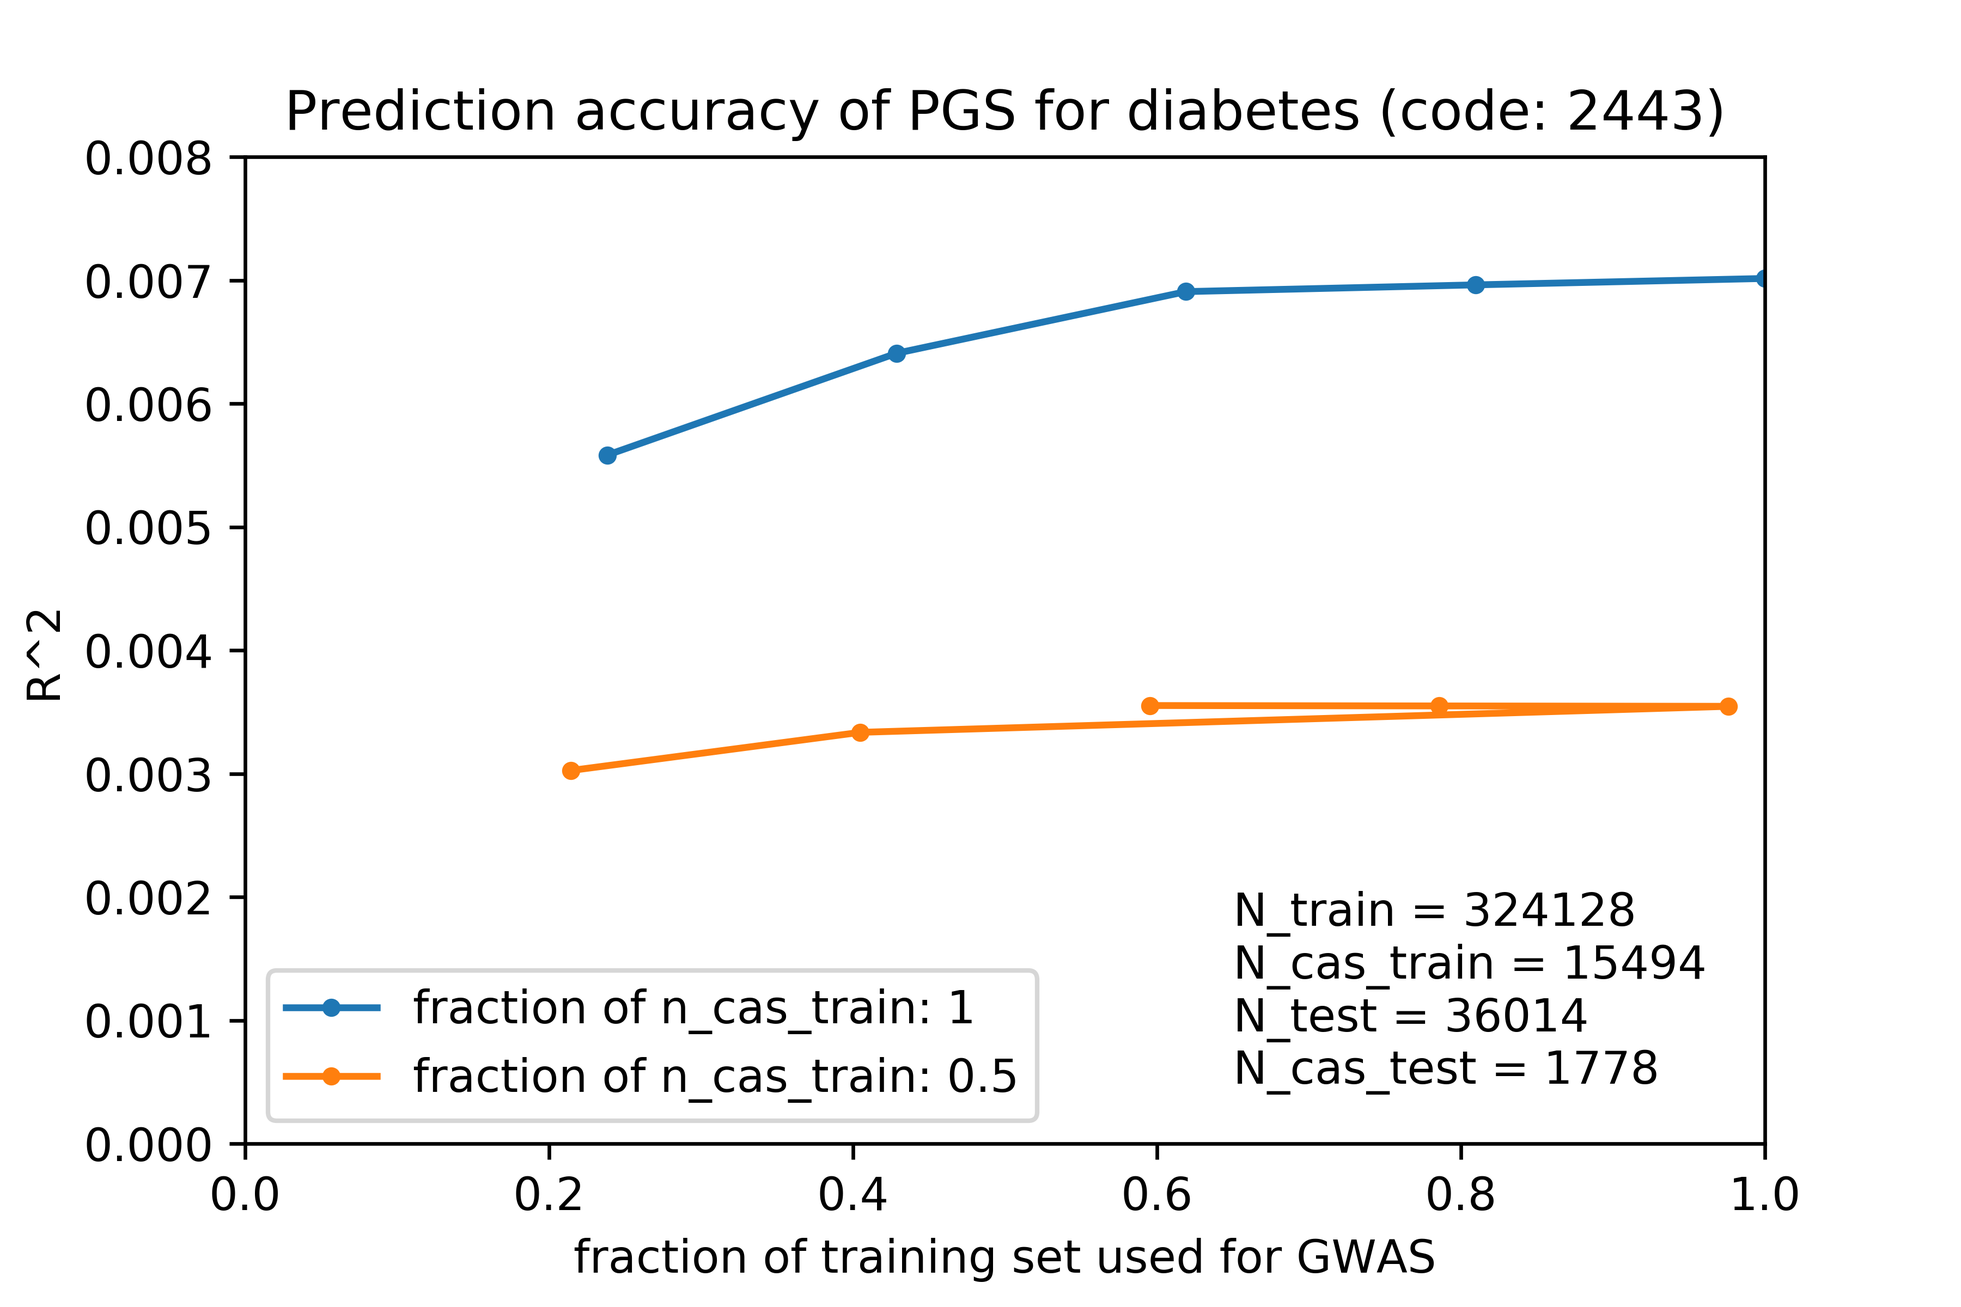
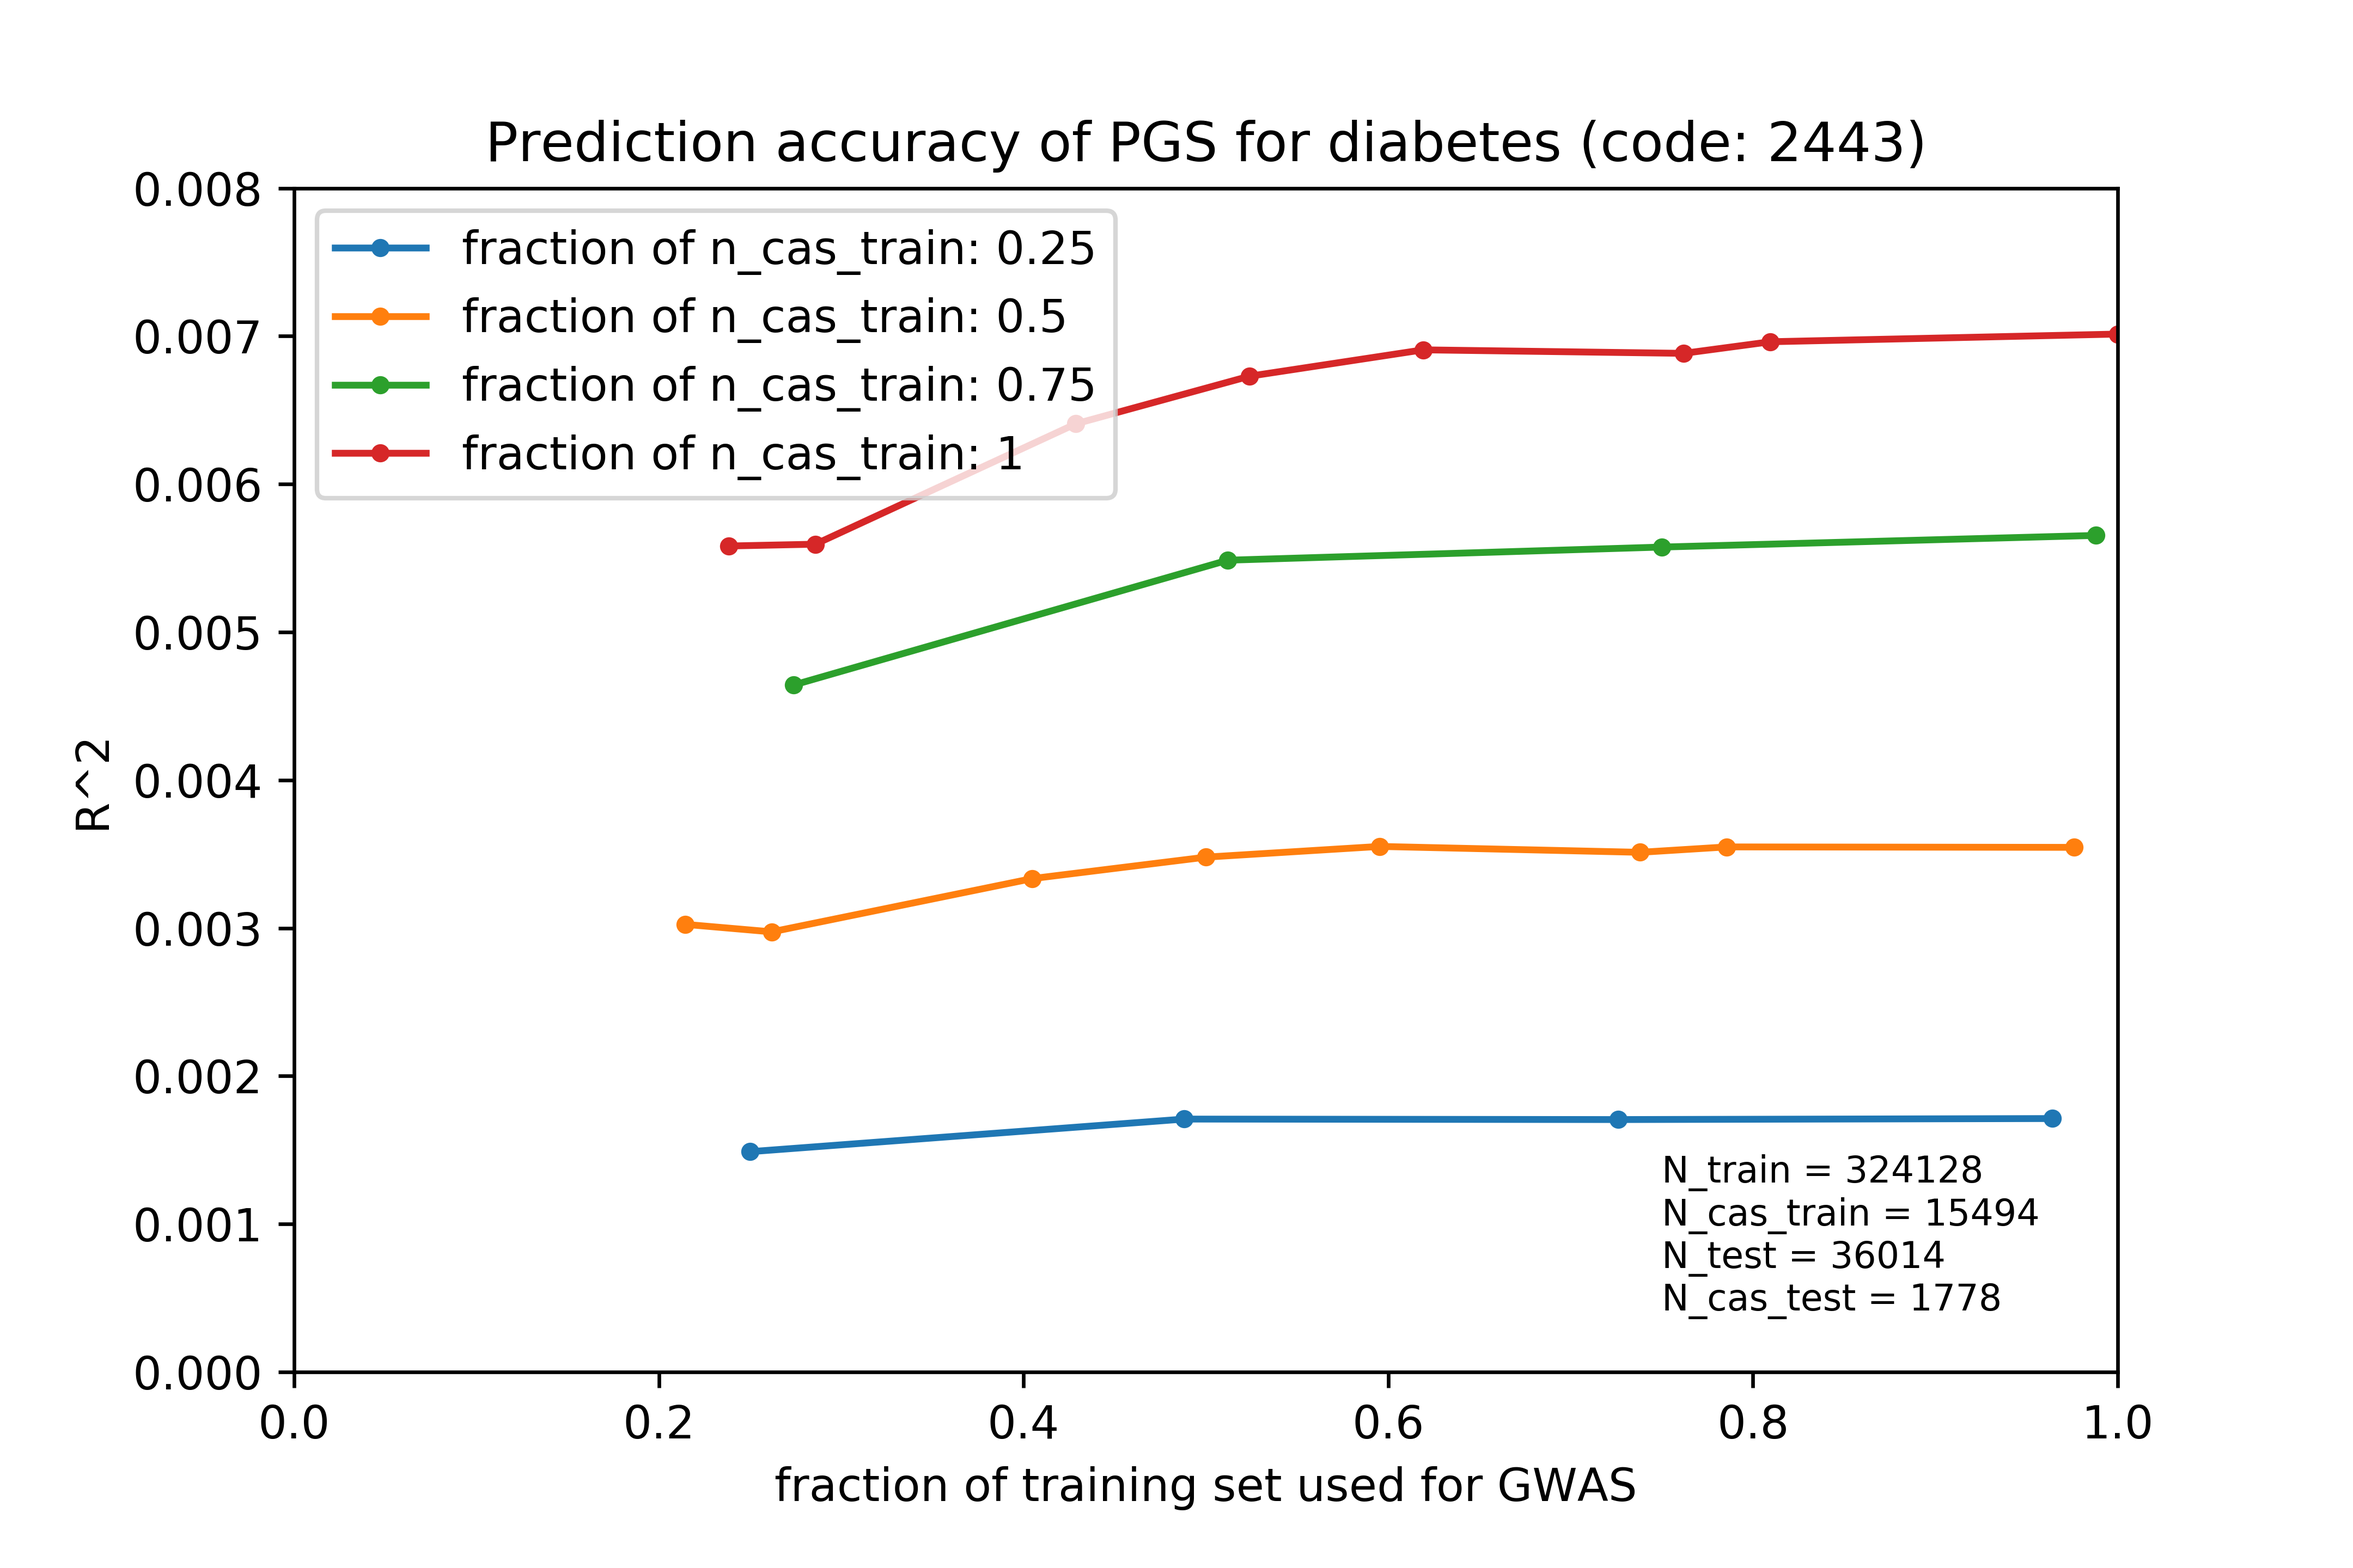
updated plots and code for new downsampling combos of diabetes

diff --git a/python/plot_pgs_corr.py b/python/plot_pgs_corr.py
@@ -13,7 +13,7 @@ import pandas as pd
 import matplotlib.pyplot as plt
 #import scipy.stats as stats
 import numpy as np
-import statsmodels.api as sm
+from sklearn.linear_model import LinearRegression
 import os
 
 cloud_wd = 'gs://nbaya/risk_gradients/'
@@ -30,8 +30,8 @@ local_wd = '/Users/nbaya/Documents/lab/risk_gradients/'
 
 phen = '2443'
 frac_all_ls = [1]
-frac_cas_ls = [1, 0.5]
-frac_con_ls = [0.2, 0.4, 0.6, 0.8, 1]
+frac_cas_ls = [0.25, 0.5, 0.75, 1]
+frac_con_ls = [0.2, 0.25, 0.4, 0.5, 0.6, 0.75, 0.8, 1]
 
 phen = '21001'
 frac_all_ls = [0.2, 0.4, 0.6, 0.8, 1]
@@ -75,7 +75,7 @@ else:
                         subprocess.call(f'gsutil cp {cloud_wd}corr{suffix}.tsv {local_wd}data/'.split(' '))
                     if not os.path.isfile(f'{local_wd}data/corr{suffix}.tsv'):
                         print(f'{cloud_wd}corr{suffix}.tsv does not exist, using null values instead')
-                        row = [float('nan')]*10
+                        row = [float('nan')]*11
                     else:
                         result = pd.read_csv(f'{local_wd}data/corr{suffix}.tsv',sep='\t')
                         row = [result['phen'].values[0],result['desc'].values[0],n,n_cas,n_new,n_cas_new,
@@ -88,6 +88,8 @@ else:
 
 df = df.dropna()
 
+
+df = df.sort_index()
 for frac in frac_cas_ls:
     df_tmp = df[df.n_cas_train == int(phen_dict[phen][4]*frac)]    
     plt.plot(df_tmp.n_train/phen_dict[phen][3], df_tmp.r**2,'.-')
@@ -96,55 +98,63 @@ plt.ylabel('R^2')
 plt.xlim([0,1])
 plt.ylim([0,round(max(df.r**2)*1.1,(2 if max(df.r**2)>0.1 else 3))])
 plt.title(f'Prediction accuracy of PGS for {phen_dict[phen][0]} (code: {phen})')
-plt.text(x=(0.65 if n_cas>0 else 0.7),
-         y=max(df.r**2)*(0.07 if n_cas>0 else 0.06),
+plt.text(x=(0.75 if n_cas>0 else 0.7),
+         y=max(df.r**2)*(0.06 if n_cas>0 else 0.06),
          s=(f'N_train = {phen_dict[phen][3]}'+(f'\nN_cas_train = {phen_dict[phen][4]}' if n_cas>0 else '')+
-                         f'\nN_test = {n-phen_dict[phen][3]}'+(f'\nN_cas_test = {n_cas-phen_dict[phen][4]}' if n_cas>0 else '')))
+                         f'\nN_test = {n-phen_dict[phen][3]}'+(f'\nN_cas_test = {n_cas-phen_dict[phen][4]}' if n_cas>0 else '')),
+         fontsize=8)
 if len(frac_cas_ls)>1:
     plt.legend([f'fraction of n_cas_train: {frac}' for frac in frac_cas_ls])
 fig=plt.gcf()
+fig.set_size_inches(6*1.2,4*1.2)
 fig.savefig(f'{local_wd}plots/{phen}_pgs_prediction.png',dpi=600)
 plt.close()
-    
+
 if n_cas > 0:
-    df = df.sort_values(by='n_cas')
-    x = (1/df.n_cas_train + 1/(df.n_train-df.n_cas_train))
-    y = 1/df.r**2
-    plt.plot(x, y,'.-')
+    df = df.sort_values(by='r')
+    x = np.asarray(1/df.n_cas_train + 1/(df.n_train-df.n_cas_train)).reshape((-1,1))
+    y = np.asarray(1/df.r**2)
+    plt.plot(x, y,'.',ms=10)
     plt.xlabel('1/N_e')
     plt.ylabel('1/R^2')
-    result = sm.OLS(endog=y.tolist(),exog=sm.add_constant(x.tolist())).fit()
-    R2 = result.rsquared
-    b, a = result.params[0], result.params[1]
+    model = LinearRegression().fit(x,y)
+    r2 = model.score(x,y)
+    b, a = model.intercept_, model.coef_[0]
     plt.plot(x,a*x+b,'k--',alpha=0.5)
     plt.title(f'PGS for {phen_dict[phen][0]} (code: {phen})')
     plt.text(x=min(x), y=max(y)-0.1*(max(y)-min(y)),
-             s=f'y = {round(a,6)}*x + {round(b,6)}\nR^2 = {round(R2,6)}')
+             s=f'y = {round(a,6)}*x + {round(b,6)}\nR^2 = {round(r2,6)}')
     plt.legend(['1/N_e vs. 1/R^2','OLS fit'],loc='lower right')
+    locs, labels = plt.xticks()
+    plt.xticks(locs[::2],[str(round(x,10)) for x in locs[::2]],rotation=0)
     fig=plt.gcf()
+    fig.set_size_inches(6*1.2, 4*1.2)
     fig.savefig(f'{local_wd}plots/{phen}_inv_Neff_inv_R2.png',dpi=600)
     plt.close()
 
 for i, frac in enumerate(frac_cas_ls):
     df_tmp = df[df.n_cas_train == int(phen_dict[phen][4]*frac)].sort_values(by='n_train')
-    plt.plot(df_tmp.inv_n_train, df_tmp.inv_R2,'.-',c=plt.rcParams['axes.prop_cycle'].by_key()['color'][i])
-    result = sm.OLS(df_tmp.inv_R2.tolist(),sm.add_constant(df_tmp.inv_n_train.tolist())).fit()
-    R2 = result.rsquared
-    b, a = result.params[0], result.params[1]
-    x = np.asarray([min(df_tmp.inv_n_train),max(df_tmp.inv_n_train)])
+    x = np.asarray(df_tmp.inv_n_train).reshape((-1,1))
+    y = np.asarray(df_tmp.inv_R2)
+    plt.plot(x, y,'.-',c=plt.rcParams['axes.prop_cycle'].by_key()['color'][i])
+    
+    model = LinearRegression().fit(x,y)
+    r2 = model.score(x,y)
+    b, a = model.intercept_, model.coef_[0]
     plt.plot(x,a*x+b,'k--',alpha=0.5)
     plt.title(f'PGS for {phen_dict[phen][0]} (code: {phen})')
     plt.ylabel('1/R^2')
     plt.xlabel('1/N')
-    #locs, labels = plt.xticks()
-    #plt.xticks(locs[::2],[str(round(x,10)) for x in locs[::2]])
+    locs, labels = plt.xticks()
+    plt.xticks(locs[::2],[str(round(x,10)) for x in locs[::2]],rotation=0)
+    plt.legend(['1/N vs. 1/R^2','OLS fit'],loc='lower right')
     plt.text(x=min(df_tmp.inv_n_train), 
              y=max(df_tmp.inv_R2)-(0.2 if len(frac_cas_ls)==1 else 0.3)*(max(df_tmp.inv_R2)-min(df_tmp.inv_R2)),
-             s=f'y = {round(a,6)}*x + {round(b,6)}\nR^2 = {round(R2,6)}\nh2_M = {round(1/b,6)}\nM_e = {int(round(a/b**2))}'+
-             f'\nfrac_cas = {frac_cas}' if len(frac_cas_ls)>1 else '')
-    plt.legend(['1/N vs. 1/R^2','OLS fit'],loc='lower right')
+             s=f'y = {round(a,6)}*x + {round(b,6)}\nR^2 = {round(r2,6)}\nh2_M = {round(1/b,6)}\nM_e = {int(round(a/b**2))}'+
+             f'\nfrac_cas = {frac}' if len(frac_cas_ls)>1 else '')
     fig=plt.gcf()
-    fig.savefig(f'{local_wd}plots/{phen}_pgs_prediction_linearized{"" if len(frac_cas_ls)==1 else i}.png',dpi=600)
+    fig.savefig(f'{local_wd}plots/{phen}_pgs_prediction_linearized{"" if len(frac_cas_ls)==1 else f".frac_cas_{frac}"}.png',dpi=600)
+#    fig.savefig(f'{local_wd}plots/{phen}_pgs_prediction_linearized_all.png',dpi=600) #only use if len(frac_cas_ls) > 1
     plt.close()
 
 

diff --git a/python/downsample_gwas.py b/python/downsample_gwas.py
@@ -65,7 +65,7 @@ def get_mt(phen, variant_set, test_set=0.1, get='both', overwrite=False, seed=No
         mt0 = hl.read_matrix_table(f'gs://nbaya/split/ukb31063.{variant_set}_variants.gwas_samples_repart.mt')
     
         print(f'\nReading UKB phenotype {phen_dict[phen][0]} (code: {phen})...')
-        phen_tb0 = hl.import_table('gs://phenotype_31063/ukb31063.phesant_phenotypes.both_sexes.tsv.bgz',
+        phen_tb0 = hl.import_table('gs://ukb31063/ukb31063.phenotypes.tsv.bgz',
                                    missing='',impute=True,types={'"userId"': hl.tstr}).rename({ '"userId"': 's', '"'+phen+'"': 'phen'})
         phen_tb0 = phen_tb0.key_by('s')
         phen_tb = phen_tb0.select(phen_tb0['phen'])
@@ -220,7 +220,7 @@ def downsample(mt, frac, phen, for_cases=None, seed = None):
         header += f'n: {n}\n'
         header += f'n_cas: {n_cas}\nn_con: {n-n_cas}\nprevalence: {round(n_cas/n,6)}\n' if for_cases != None else ''
         header += f'seed: {seed}\n'
-        header += 'Time: {:%H:%M:%S (%Y-%b-%d)}'.format(dt.datetime.now())
+        header += 'Time: {:%H:%M:%S (%Y-%b-%d)}\n'.format(dt.datetime.now())
         header += '############'
         print(header)        
         randstate = np.random.RandomState(int(seed)) #seed random state for replicability
@@ -268,6 +268,21 @@ if __name__ == "__main__":
     header += '############'
     print(header)
 
+    variants = hl.import_table('gs://nbaya/split/hapmap3_variants.tsv')
+    variants = variants.annotate(**hl.parse_variant(variants.v))
+    variants = variants.key_by('locus','alleles') 
+#    gt0 = hl.read_matrix_table('gs://phenotype_31063/hail/imputed/ukb31063.GT.autosomes.mt/')
+#    gt0 = hl.import_bgen(path='gs://fc-7d5088b4-7673-45b5-95c2-17ae00a04183/imputed/ukb_imp_chr{1,2,3,4,5,6,7,8,9,10,11,12,13,14,15,16,17,18,19,20,21,22}_v3.bgen',
+#                         entry_fields=['GT'],
+#                         sample_file = 'gs://ukb31063/ukb31063.autosomes.sample',
+#                         variants=variants)
+    gt0 = hl.import_bgen(path='gs://fc-7d5088b4-7673-45b5-95c2-17ae00a04183/imputed/ukb_imp_chr'+str(set(range(1,23))).replace(' ','')+'_v3.bgen',
+                         entry_fields=['GT'],
+                         n_partitions = 1000,
+                         sample_file = 'gs://ukb31063/ukb31063.autosomes.sample',
+                         variants=variants)
+
+
     for phen in phen_ls:
         print('\n############')
         print(f'Starting phenotype: {phen_dict[phen][0]} (code: {phen})')
@@ -287,12 +302,11 @@ if __name__ == "__main__":
                     start_iter = dt.datetime.now()
                     mt3, n_new, n_cas_new = downsample(mt=mt2,frac=frac_con,phen=mt2.phen,for_cases=0,seed=seed)
 
-                    start0 = dt.datetime.now()
-                    print(mt3.count_cols())
-                    elapsed0 = dt.datetime.now()-start0
-                    print(f'Time to count: '+str(round(elapsed0.seconds/60, 2))+' minutes')
+#                    start0 = dt.datetime.now()
+#                    print(mt3.count_cols())
+#                    elapsed0 = dt.datetime.now()-start0
+#                    print(f'Time to count: '+str(round(elapsed0.seconds/60, 2))+' minutes')
                     
-                    gt0 = hl.read_matrix_table('gs://phenotype_31063/hail/imputed/ukb31063.GT.autosomes.mt/')
                     mt3 = mt3.annotate_entries(GT = gt0[(mt3.locus,mt3.alleles),mt3.s].GT)
                     mt3 = mt3.annotate_rows(maf = hl.agg.stats(mt3.GT.n_alt_alleles()).mean/2) # annotate with maf
                     if frac_con == 1 and frac_cas ==1:

diff --git a/python/calc_scores.py b/python/calc_scores.py
@@ -208,22 +208,27 @@ if __name__=="__main__":
                                                      pval = gwas[test_mt.rsid].pval)
                     
                     for t in thresholds:
-                        t = str(int(t)) if t==1 else '%.1e' % t
                         
                         # Thresholding to variants with p-value less than threshold
                         n_rows1 = test_mt1.count_rows()
-                        print('\n###############')
-                        print(f'Filtering variants by p-value threshold = {t}...')
-                        print(f'Number of variants before thresholding: {n_rows1}...')
-                        print('###############\n')
-                        test_mt1 = test_mt1.filter_rows(test_mt1.pval < float(t))
-                        n_rows2 = test_mt1.count_rows()
-                        print('\n###############')
-                        print(f'Finished filtering variants by p-value threshold = {t}...')
-                        print(f'Number of variants before thresholding: {n_rows1}...')
-                        print(f'Number of variants remaining after thresholding: {n_rows2}...')
-                        print('###############\n')
-
+                        if t == 1: #if p-value threshold == 1
+                            print('\n###############')
+                            print(f'p-value threshold = {t}, not filtering any of the {n_rows1} variants')
+                            print('###############\n')
+                        else: 
+                            t = str(int(t)) if t==1 else '%.1e' % t
+                            print('\n###############')
+                            print(f'Filtering variants by p-value threshold = {t}...')
+                            print(f'Number of variants before thresholding: {n_rows1}...')
+                            print('###############\n')
+                            test_mt1 = test_mt1.filter_rows(test_mt1.pval < float(t))
+                            n_rows2 = test_mt1.count_rows()
+                            print('\n###############')
+                            print(f'Finished filtering variants by p-value threshold = {t}...')
+                            print(f'Number of variants before thresholding: {n_rows1}...')
+                            print(f'Number of variants remaining after thresholding: {n_rows2}...')
+                            print('###############\n')
+                                  
                         print('\nCalculating PGS...')
                         print(f'frac_all: {frac_all}\tfrac_cas: {frac_cas}\tfrac_con: {frac_con}')
                         print('Time: {:%H:%M:%S (%Y-%b-%d)}\n'.format(dt.datetime.now()))
